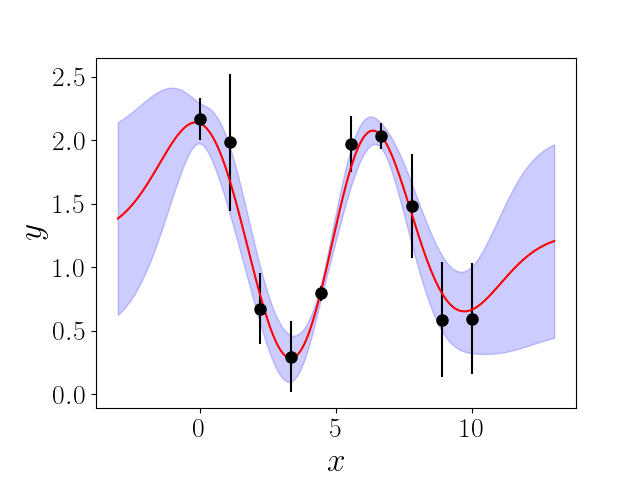
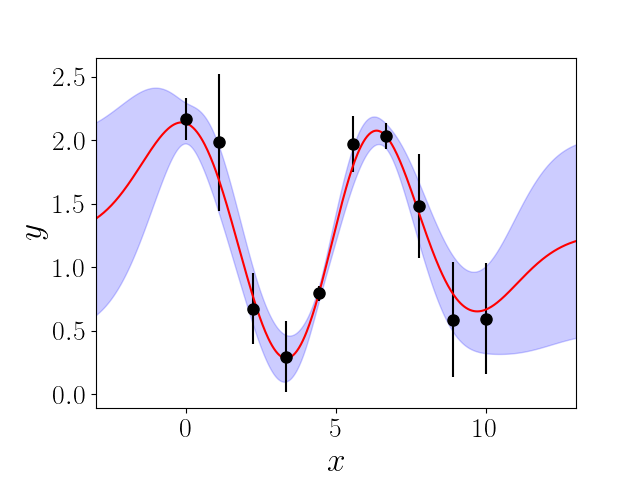
Added the hyperparameters_example.py which demonstrates what L and k_0 are.

diff --git a/examples/hyperpameters_example.py b/examples/hyperpameters_example.py
@@ -1,0 +1,53 @@
+"""
+This is identical to the cosine_example.py code, except that it
+shows the relative size of L and k_0. The former corresponds to the
+correlation length of the kernel or more generally the size of "feautures"
+in the data, and the latter is the uncertainty in the emulator in 
+regions it has to extrapolate.
+"""
+import emulator
+import numpy as np
+import matplotlib.pyplot as plt
+plt.rc('text',usetex=True)
+plt.rc('font', size=20)
+
+#Create random training data
+np.random.seed(85719)
+x = np.linspace(0,10,num=10)
+yerr = 0.05+0.5 * np.random.rand(len(x))
+y = np.cos(x) + yerr + 1
+
+#Train
+emu = emulator.Emulator(name="example_emulator",xdata=x,ydata=y,yerr=np.fabs(yerr))
+emu.train()
+
+#Create some data to predict on
+xstar = np.linspace(min(x)-10,max(x)+10,500)
+ystar,ystarvar = emu.predict(xstar)
+ystarerr = np.sqrt(ystarvar)
+
+#Get out the hyperparameters
+Ls, k0 = emu.Ls[0], emu.k0
+
+#Plot the training data
+plt.errorbar(x,y,np.fabs(yerr),ls='',marker='o',color='k',ms=8)
+#Plot the mean prediction
+plt.plot(xstar,ystar,ls='-',c='r')
+#Plot the errorbars
+plt.fill_between(xstar, ystar+ystarerr, ystar-ystarerr, alpha=0.2, color='b')
+#Plot the kernel length region
+minx = x[np.argmin(y)]
+ylims = plt.gca().get_ylim()
+plt.fill_between([minx-Ls/2., minx+Ls/2.], ylims[0], ylims[1], facecolor="purple", alpha=0.3, zorder=-1, label=r"$L$ region")
+#Plot the kernel amplitude region
+ymean = np.mean(y)
+err = np.sqrt(k0)
+plt.fill_between([min(xstar),max(xstar)], ymean-err, ymean+err, facecolor="green", alpha=0.3, zorder=-2, label=r"$k_0$ region")
+#Labels
+plt.xlabel(r"$x$",fontsize=24)
+plt.ylabel(r"$y$",fontsize=24)
+plt.subplots_adjust(bottom=0.15,left=0.15)
+plt.ylim(ylims)
+plt.xlim(min(xstar), max(xstar))
+plt.legend(fontsize=12)
+plt.show()

diff --git a/examples/cosine_example.py b/examples/cosine_example.py
@@ -1,5 +1,8 @@
 import emulator
 import numpy as np
+import matplotlib.pyplot as plt
+plt.rc('text', usetex=True)
+plt.rc('font', size=20)
 
 #Create random training data
 np.random.seed(85719)
@@ -16,9 +19,6 @@ xstar = np.linspace(min(x)-3,max(x)+3,500)
 ystar,ystarvar = emu.predict(xstar)
 ystarerr = np.sqrt(ystarvar)
 
-#Visualize
-import matplotlib.pyplot as plt
-plt.rc('text',usetex=True, fontsize=20)
 #Plot the training data
 plt.errorbar(x,y,np.fabs(yerr),ls='',marker='o',color='k',ms=8,label="f")
 #Plot the mean prediction
@@ -28,6 +28,7 @@ plt.fill_between(xstar, ystar+ystarerr, ystar-ystarerr, alpha=0.2, color='b')
 #Labels
 plt.xlabel(r"$x$",fontsize=24)
 plt.ylabel(r"$y$",fontsize=24)
+plt.xlim(min(xstar), max(xstar))
 plt.subplots_adjust(bottom=0.15,left=0.15)
 plt.gcf().savefig("../figures/cosine_example.png")
 plt.show()
